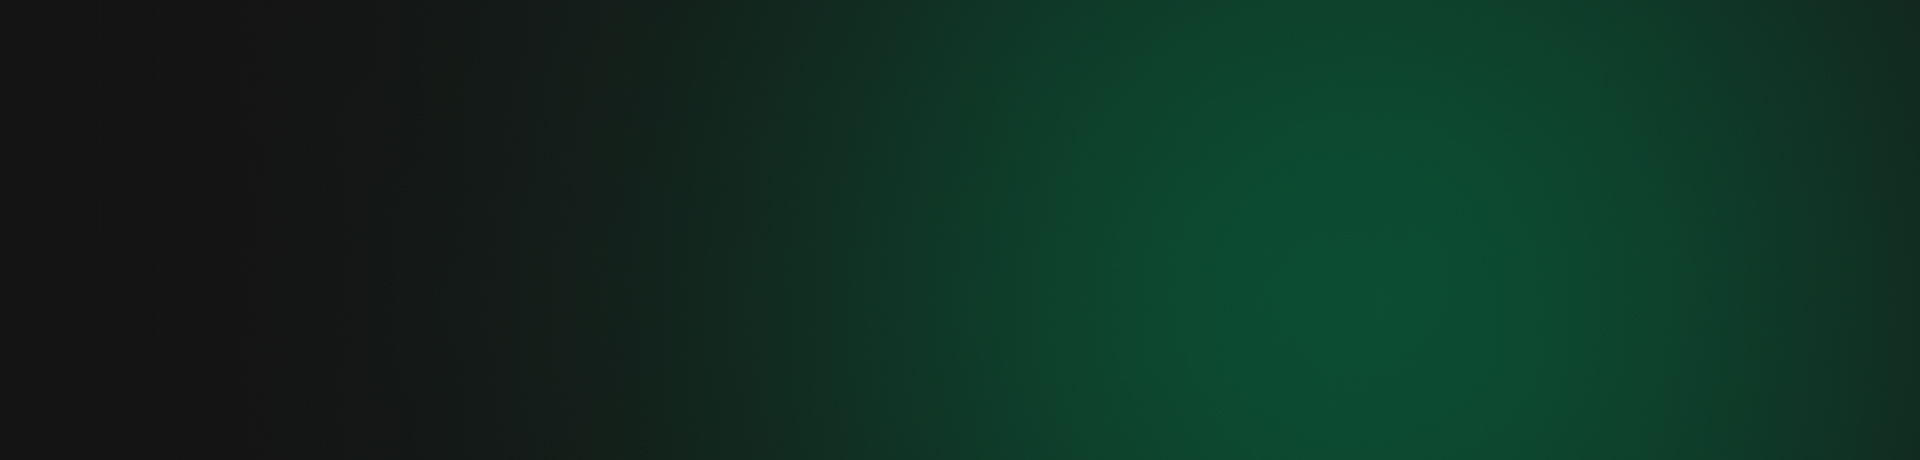
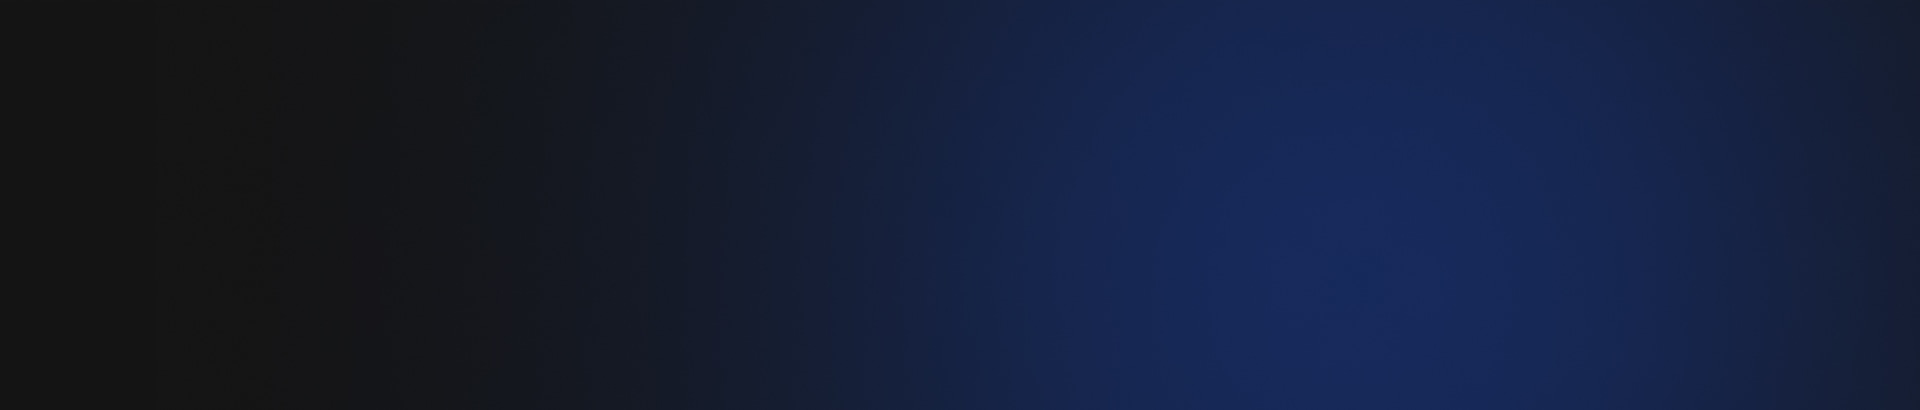
change font + recolor promo

diff --git a/index.html b/index.html
@@ -7,7 +7,7 @@
 
 	<link rel="preconnect" href="https://fonts.googleapis.com">
 	<link rel="preconnect" href="https://fonts.gstatic.com" crossorigin>
-	<link href="https://fonts.googleapis.com/css2?family=Montserrat+Subrayada:wght@400;700&family=Raleway:wght@400;700&display=swap" rel="stylesheet">
+	<link href="https://fonts.googleapis.com/css2?family=Josefin+Sans:wght@100..700&family=Raleway:wght@400;700&display=swap" rel="stylesheet">
 
 	<link rel="stylesheet" href="https://cdn.jsdelivr.net/npm/bootstrap-icons@1.11.3/font/bootstrap-icons.min.css">
 	<link rel="stylesheet" href="css/bootstrap.min.css">
@@ -32,9 +32,9 @@
 				<div class="col-lg-3 ">
 					<div class="d-flex">
 						<a href="/" class="d-inline-block">
-							<img src="img/logo2.png" alt="" class="img-fluid">
+							<img src="img/logo3.png" alt="" class="img-fluid">
 						</a>
-						<a class="d-inline-block" data-bs-toggle="offcanvas" href="#offcanvasnav" role="button" aria-controls="offcanvasnav">
+						<a class="d-inline-block d-lg-none" data-bs-toggle="offcanvas" href="#offcanvasnav" role="button" aria-controls="offcanvasnav">
 							<svg fill="none" height="40" viewBox="0 0 40 40" width="40" xmlns="http://www.w3.org/2000/svg">
 								<g fill="#fff">
 									<path d="m4 12h32v2h-32z" />
@@ -154,15 +154,16 @@
 	<div class="lights"></div>
 
 	<!-- slider -->
-	<section id="slider" class="jarallax" data-jarallax data-video-src="https://www.youtube.com/watch?v=Acbv4GB-dSY">
+	<section id="slider" class="jarallax" data-jarallax data-video-src="https://www.youtube.com/watch?v=yeprjqaSAsw">
+		<!-- https://vimeo.com/946666022 -->
 		<!-- https://vimeo.com/943162792 -->
 		<div class="container-fluid">
 			<div class="slider_item_0">
-				<a href="https://vimeo.com/943162792" data-fancybox="">
-					<img src="img/video.jpg" alt="" class="img-fluid" alt="https://youtu.be/yeprjqaSAsw?si=tSvjVZ84D7AMrAh7" style="opacity: 0;">
+				<a href="https://www.youtube.com/watch?v=yeprjqaSAsw" data-fancybox="">
+					<img src="img/video.jpg" alt="" class="img-fluid" style="opacity: 0;">
+					<!-- https://youtu.be/yeprjqaSAsw?si=tSvjVZ84D7AMrAh7 -->
 				</a>
 			</div>
-
 		</div>
 	</section> <!-- / slider -->
 	<div class="lights"></div>

diff --git a/css/styles.css b/css/styles.css
@@ -21,7 +21,7 @@ body {
 }
 
 .font_akcent {
-  font-family: "Montserrat Subrayada", sans-serif;
+  font-family: "Josefin Sans", sans-serif;
   font-weight: 700;
   font-style: normal;
 }
@@ -32,10 +32,12 @@ body {
 }
 
 h2 {
-  font-family: "Montserrat Subrayada", sans-serif;
+  font-family: "Josefin Sans", sans-serif;
   color: #FDAE00;
   font-size: 40px;
   margin-bottom: 60px;
+  text-transform: uppercase;
+  font-weight: 700;
 }
 
 p {
@@ -127,8 +129,13 @@ header .main_menu {
 header .main_menu a {
   color: #fff;
   font-size: 20px;
-  font-family: "Montserrat Subrayada", sans-serif;
+  font-family: "Josefin Sans", sans-serif;
+  font-weight: 700;
+  margin-top: 5px;
   text-decoration: none;
+  text-transform: uppercase;
+  text-shadow: 2px 2px #141414;
+  transition: all 0.2s ease;
 }
 header .main_menu a:hover {
   color: #FDAE00;
@@ -136,7 +143,7 @@ header .main_menu a:hover {
 
 #offcanvasnav {
   background-color: #AE0F13;
-  font-family: "Montserrat Subrayada", sans-serif;
+  font-family: "Josefin Sans", sans-serif;
   color: #FDAE00;
   max-width: 320px;
 }
@@ -147,7 +154,7 @@ header .main_menu a:hover {
   color: #FDAE00;
 }
 #offcanvasnav .nav-item {
-  font-family: "Montserrat Subrayada", sans-serif;
+  font-family: "Josefin Sans", sans-serif;
   color: #fff;
 }
 #offcanvasnav .nav-item:hover {
@@ -178,9 +185,12 @@ header .main_menu a:hover {
 /* offer */
 #offer {
   background: transparent url("../img/offer.jpg") no-repeat scroll center center/cover;
+  padding-top: 50px;
+  padding-bottom: 20px;
 }
 #offer .offer_text {
-  font-family: "Montserrat Subrayada", sans-serif;
+  font-family: "Josefin Sans", sans-serif;
+  font-weight: 700;
   font-size: 56px;
   color: #FDAE00;
 }
@@ -377,7 +387,7 @@ header .main_menu a:hover {
 #contacts a {
   text-decoration: none;
   color: #fff;
-  font-family: "Montserrat Subrayada", sans-serif;
+  font-family: "Josefin Sans", sans-serif;
 }
 
 /* contacts ADAPTIVE */
@@ -429,7 +439,7 @@ footer #footer_copyright {
   position: fixed;
   right: -140px;
   z-index: 99999;
-  font-family: "Montserrat Subrayada", sans-serif;
+  font-family: "Josefin Sans", sans-serif;
   font-size: 16px;
   transition: all 0.25s ease;
 }

diff --git a/css/_header.sass b/css/_header.sass
@@ -15,8 +15,13 @@ header
 		a
 			color: #fff
 			font-size: 20px
-			font-family: "Montserrat Subrayada", sans-serif
+			font-family: $f1
+			font-weight: 700
+			margin-top: 5px
 			text-decoration: none
+			text-transform: uppercase
+			text-shadow: 2px 2px #141414
+			transition: all .2s ease
 			&:hover
 				color: #FDAE00
 

diff --git a/css/styles.sass b/css/styles.sass
@@ -2,7 +2,7 @@ $c1: #FDAE00
 $c2: #AE0F13
 
 $f0: "Raleway", sans-serif
-$f1: "Montserrat Subrayada", sans-serif
+$f1: "Josefin Sans", sans-serif
 
 *
 	transition: all .3s ease
@@ -36,6 +36,8 @@ h2
 	color: $c1
 	font-size: 40px
 	margin-bottom: 60px
+	text-transform: uppercase
+	font-weight: 700
 
 p
 	line-height: 170%

diff --git a/css/_offer.sass b/css/_offer.sass
@@ -3,9 +3,12 @@
 
 #offer
 	background: transparent url('../img/offer.jpg') no-repeat scroll center center / cover
+	padding-top: 50px
+	padding-bottom: 20px
 
 	.offer_text
 		font-family: $f1
+		font-weight: 700
 		font-size: 56px
 		color: $c1
 		
